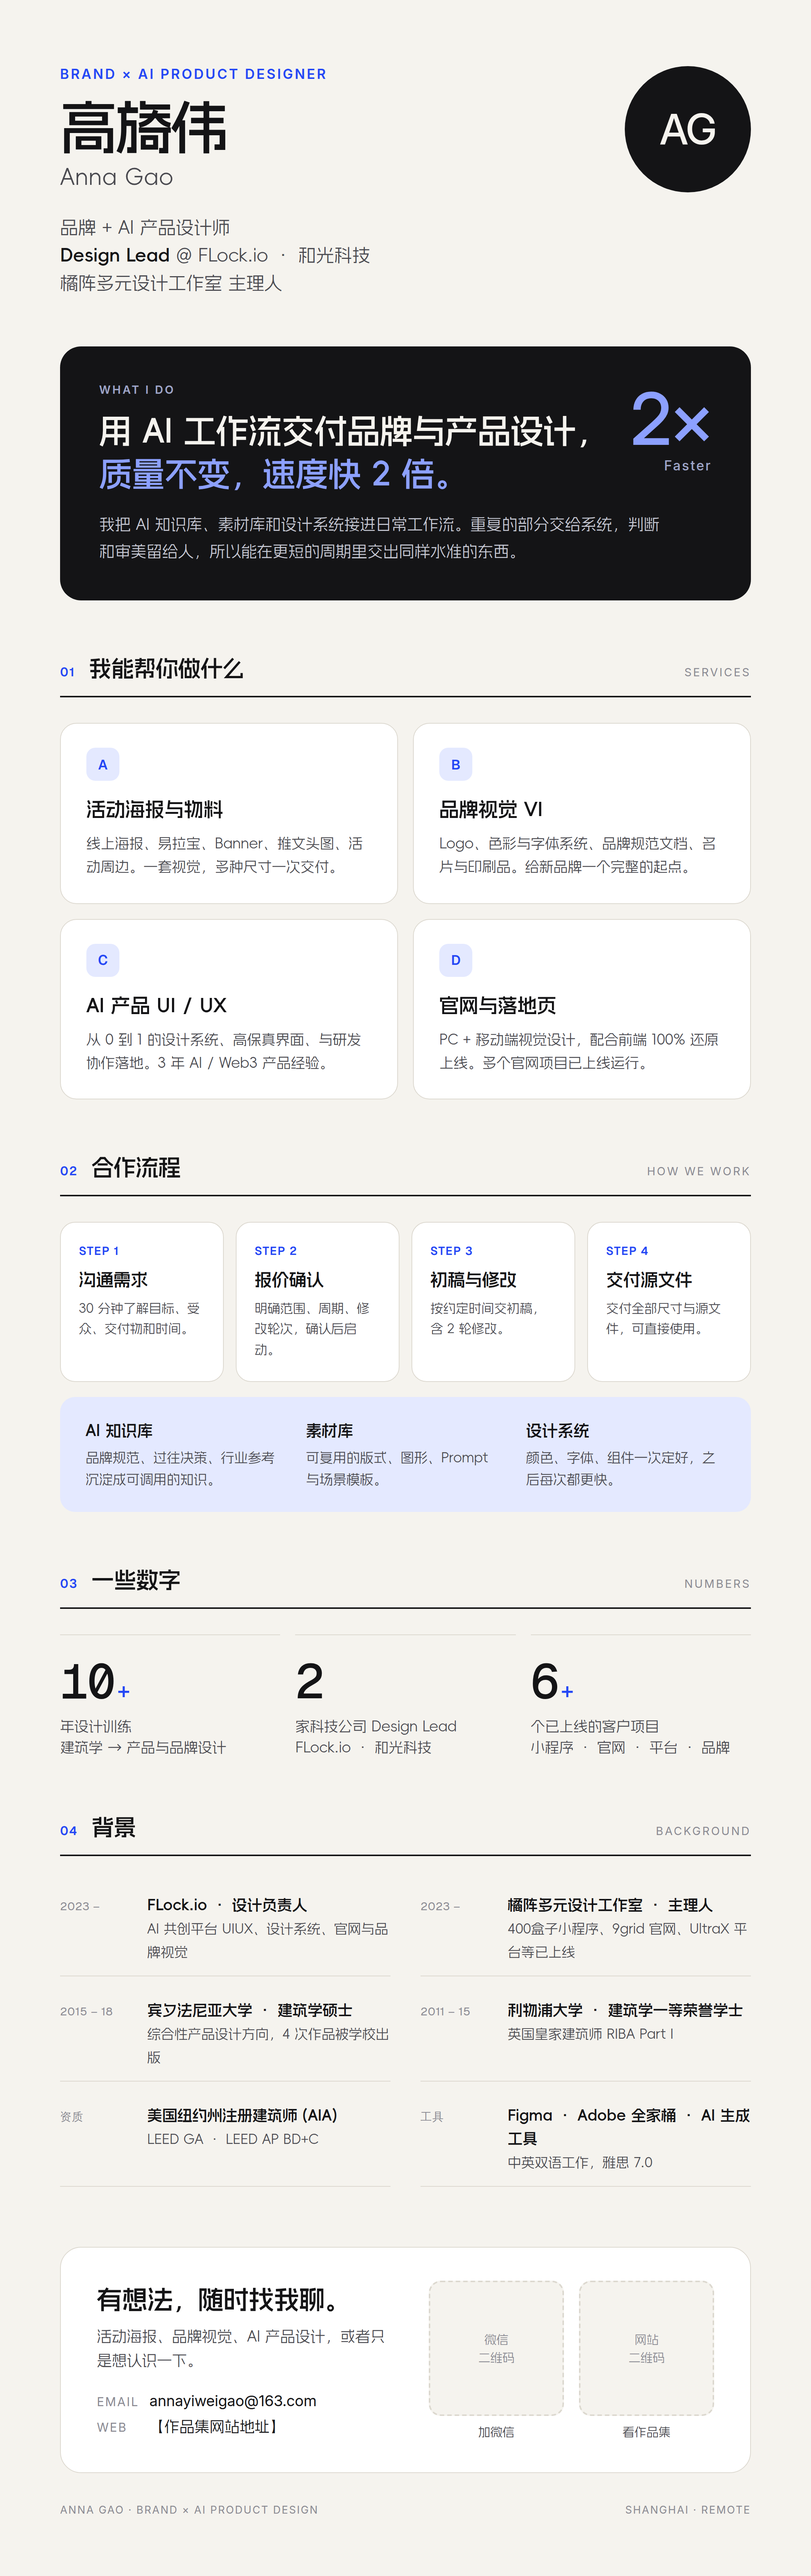
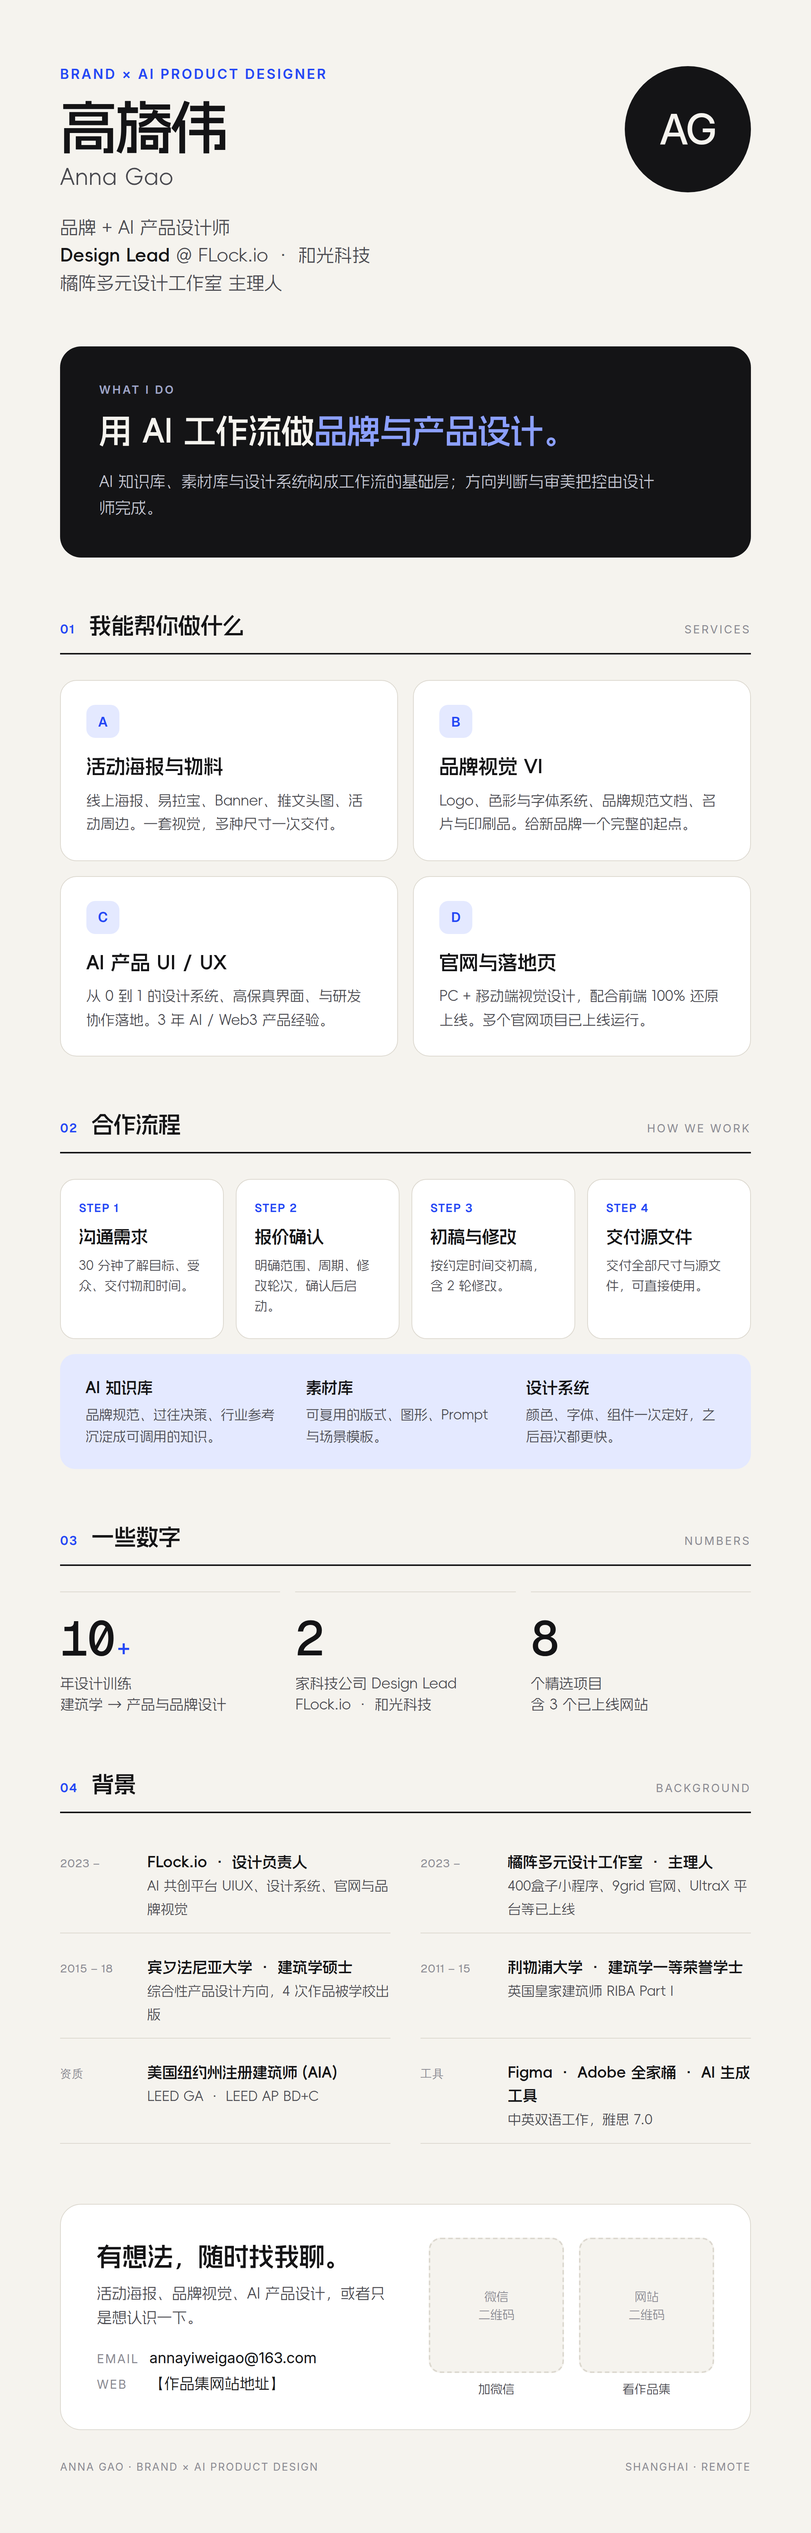
Remove the speed claim; hero is a single line
Claude-Session: https://claude.ai/code/session_0135VaEZuBsQuVaye1yR9TwT

diff --git a/index.html b/index.html
@@ -50,7 +50,7 @@ h1,h2,h3{margin:0;text-wrap:balance;line-height:1.15}
 
 /* hero: 3 levels only */
 .hero{padding-block:clamp(72px,14vw,160px) clamp(56px,8vw,96px)}
-.hero h1{font-size:clamp(44px,8vw,104px);letter-spacing:-.03em;line-height:1.02;max-width:12em}
+.hero h1{font-size:clamp(44px,8vw,104px);letter-spacing:-.03em;line-height:1.02;max-width:14em}
 .hero .who{margin-top:clamp(24px,3vw,36px);font-size:clamp(15px,1.6vw,18px);color:var(--ink-2)}
 .hero .who b{color:var(--ink);font-weight:600}
 .hero .actions{margin-top:clamp(28px,4vw,44px);display:flex;gap:12px;flex-wrap:wrap}
@@ -158,7 +158,7 @@ h1,h2,h3{margin:0;text-wrap:balance;line-height:1.15}
 
 <main id="top">
   <section class="hero wrap">
-    <h1 class="serif">品牌与 AI 产品设计师，<br><em>交付快一倍。</em></h1>
+    <h1 class="serif">品牌与 <em>AI 产品</em>设计师</h1>
     <p class="who"><b>高旖伟 Anna Gao</b> · Design Lead @ FLock.io / 和光科技 · 建筑师出身</p>
     <div class="actions">
       <a class="btn primary" href="#work">看作品</a>
@@ -230,7 +230,7 @@ h1,h2,h3{margin:0;text-wrap:balance;line-height:1.15}
         <div>
           <div class="eyebrow">Method</div>
           <h2 class="serif" style="margin-top:14px">系统承担重复，<br><em>人负责判断。</em></h2>
-          <p>AI 知识库、素材库与设计系统构成工作流的基础层，负责规范沉淀与素材复用；方向判断与审美把控由设计师完成。执行效率的提升，使同等质量的交付周期缩短约一半。</p>
+          <p>AI 知识库、素材库与设计系统构成工作流的基础层，负责规范沉淀与素材复用；方向判断与审美把控由设计师完成。设计师的时间用在需要判断的地方。</p>
         </div>
         <div class="stack">
           <div class="layer"><div class="ic">KB</div><div><b>AI 知识库</b><span>品牌规范、历史决策与行业参考结构化存储，新项目自第一天起具备完整上下文。</span></div></div>

diff --git a/collateral/anna-card.html b/collateral/anna-card.html
@@ -102,9 +102,9 @@ section{margin-top:72px}
 
   <div class="claim">
     <div class="k">What I do</div>
-    <h2 class="cn">用 AI 工作流交付品牌与产品设计，<br><em>质量不变，速度快 2 倍。</em></h2>
-    <p class="cn">我把 AI 知识库、素材库和设计系统接进日常工作流。重复的部分交给系统，判断和审美留给人，所以能在更短的周期里交出同样水准的东西。</p>
-    <div class="badge">2×<small>Faster</small></div>
+    <h2 class="cn">用 AI 工作流做<em>品牌与产品设计。</em></h2>
+    <p class="cn">AI 知识库、素材库与设计系统构成工作流的基础层；方向判断与审美把控由设计师完成。</p>
+    
   </div>
 
   <section>
@@ -137,7 +137,7 @@ section{margin-top:72px}
     <div class="stats">
       <div class="stat"><div class="v">10<i>+</i></div><div class="l cn">年设计训练<br>建筑学 → 产品与品牌设计</div></div>
       <div class="stat"><div class="v">2</div><div class="l cn">家科技公司 Design Lead<br>FLock.io · 和光科技</div></div>
-      <div class="stat"><div class="v">6<i>+</i></div><div class="l cn">个已上线的客户项目<br>小程序 · 官网 · 平台 · 品牌</div></div>
+      <div class="stat"><div class="v">8</div><div class="l cn">个精选项目<br>含 3 个已上线网站</div></div>
     </div>
   </section>
 
